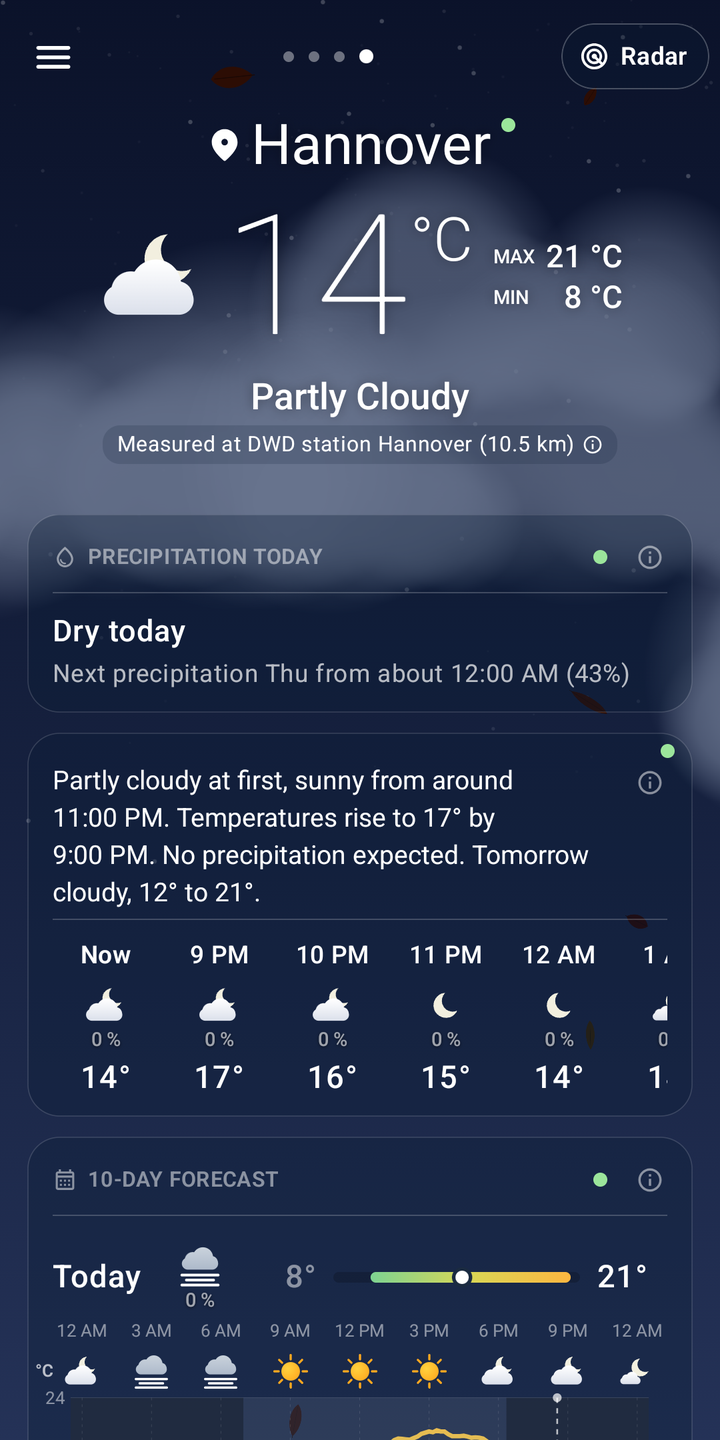
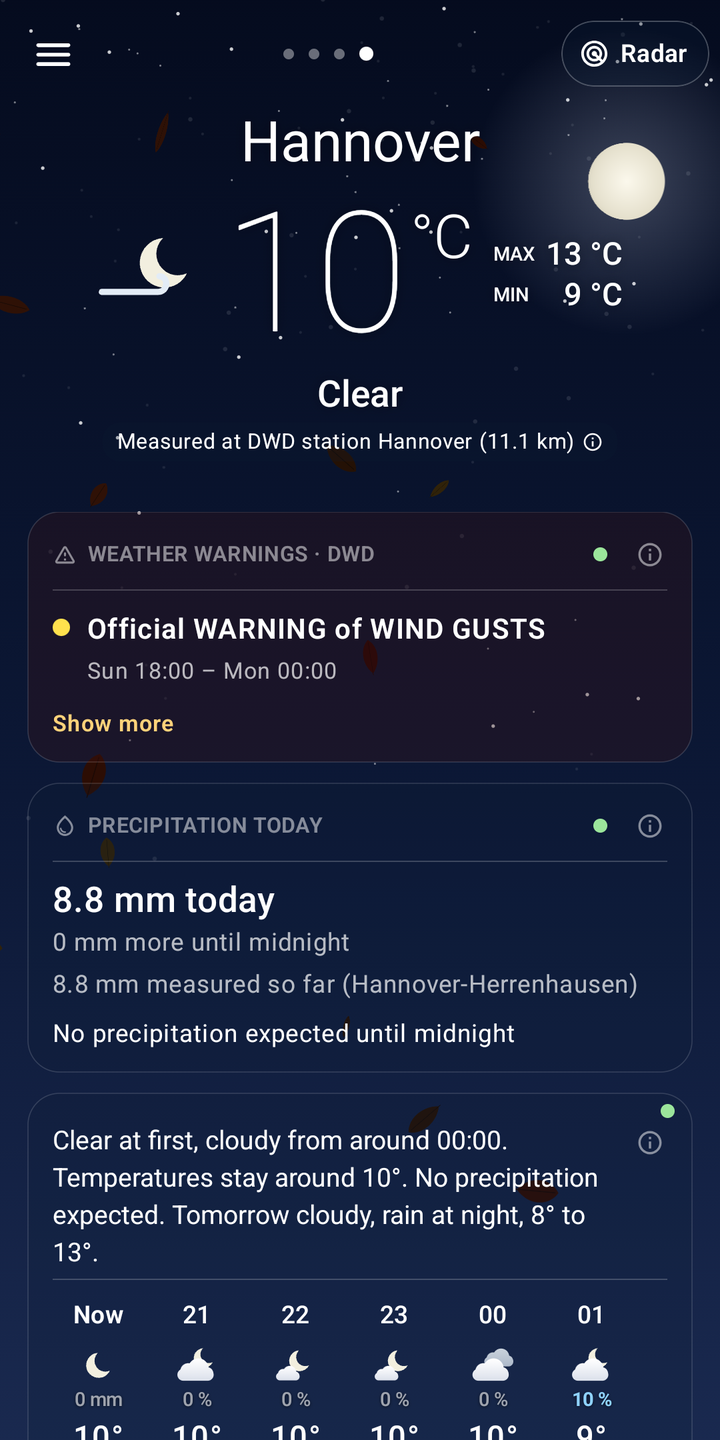
New screenshots for the docs and the store, the store text brought up to date
- docs/screenshots (de, en) and the store screenshots (de-DE, en-US) taken anew on the emulator
  with 2.2.6, Hannover on 25 Oct. 2026 in the evening: the weather page with the DWD warning, the
  day's meteogram, the look-back, sun and the full moon as in the sky, the day's radar at 15:10
  with lightning, the station and model sheets, the widget (Kiel, rain of the next two hours on
  the linear scale)
- README (de, en): the widget among the pictures, captions as the pictures show now
- Store description: the widget's parts lead into the app, the radar opens close to the place,
  lightning, the moon; long lines tightened (under 4000 characters)
- REUSE: lightning (DWD/EUMETSAT) and MET Norway in the radar pictures; the widget's picture in
  the launcher's list annotated

diff --git a/README.en.md b/README.en.md
@@ -32,17 +32,19 @@ the DWD and the KNMI. No ads, no account, no Google services. The app speaks Eng
 
 <table>
   <tr>
-    <td align="center" width="33%"><img src="docs/screenshots/en/main.png" width="240" alt="Weather page"><br><sub><b>Weather page</b><br>readings of the nearest weather station, outlook, hourly and 10 days</sub></td>
+    <td align="center" width="33%"><img src="docs/screenshots/en/main.png" width="240" alt="Weather page"><br><sub><b>Weather page</b><br>readings of the nearest weather station, official warnings, precipitation today, outlook</sub></td>
     <td align="center" width="33%"><img src="docs/screenshots/en/meteogram.png" width="240" alt="Meteogram"><br><sub><b>Meteogram</b><br>temperature, rain, sunshine and wind per hour – expected values as frames</sub></td>
     <td align="center" width="33%"><img src="docs/screenshots/en/history.png" width="240" alt="Look back"><br><sub><b>Look back</b><br>measured versus expected – rain by the radar, sunshine by the satellite over the place</sub></td>
   </tr>
   <tr>
-    <td align="center"><img src="docs/screenshots/en/radar.png" width="240" alt="Rain radar"><br><sub><b>Rain radar</b><br>DWD radar with nowcast, temperature and wind layers</sub></td>
-    <td align="center"><img src="docs/screenshots/en/sun.png" width="240" alt="Sun and moon"><br><sub><b>Sun and moon</b><br>sun arc with golden and blue hour, moon phase</sub></td>
-    <td align="center" valign="middle">
-      <b>Download</b><br><br>
-      <a href="https://github.com/schnebeck/nimbus-weather/releases/latest">Latest release (APK)</a><br><br>
-      <sub>Android 8.0 or newer<br>no Google Play Services</sub>
+    <td align="center"><img src="docs/screenshots/en/radar.png" width="240" alt="Rain radar"><br><sub><b>Rain radar</b><br>live with a two-hour nowcast, here the day in the look-back with lightning</sub></td>
+    <td align="center"><img src="docs/screenshots/en/sun.png" width="240" alt="Sun and moon"><br><sub><b>Sun and moon</b><br>sun arc with golden and blue hour, the moon as in the sky</sub></td>
+    <td align="center"><img src="docs/screenshots/en/widget.png" width="240" alt="Widget"><br><sub><b>Widget</b><br>clock and weather, rain of the next two hours, pollen – each part leads into the app</sub></td>
+  </tr>
+  <tr>
+    <td align="center" colspan="3">
+      <b>Download:</b> <a href="https://github.com/schnebeck/nimbus-weather/releases/latest">latest release (APK)</a>
+      <sub>– Android 8.0 or newer, no Google Play Services</sub>
     </td>
   </tr>
 </table>

diff --git a/README.md b/README.md
@@ -32,17 +32,19 @@ und KNMI. Keine Werbung, kein Konto, keine Google-Dienste.
 
 <table>
   <tr>
-    <td align="center" width="33%"><img src="docs/screenshots/main.png" width="240" alt="Wetterseite"><br><sub><b>Wetterseite</b><br>Messwerte der nächsten Wetterstation, Kurzvorhersage, Stunden und 10 Tage</sub></td>
+    <td align="center" width="33%"><img src="docs/screenshots/main.png" width="240" alt="Wetterseite"><br><sub><b>Wetterseite</b><br>Messwerte der nächsten Wetterstation, amtliche Warnungen, Niederschlag heute, Kurzvorhersage</sub></td>
     <td align="center" width="33%"><img src="docs/screenshots/meteogram.png" width="240" alt="Meteogramm"><br><sub><b>Meteogramm</b><br>Temperatur, Regen, Sonnenschein und Wind je Stunde – Erwartetes als Rahmen</sub></td>
     <td align="center" width="33%"><img src="docs/screenshots/history.png" width="240" alt="Rückblick"><br><sub><b>Rückblick</b><br>Gemessen gegen erwartet – Regen vom Radar, Sonne vom Satelliten über dem Ort</sub></td>
   </tr>
   <tr>
-    <td align="center"><img src="docs/screenshots/radar.png" width="240" alt="Regenradar"><br><sub><b>Regenradar</b><br>DWD-Radar mit Vorhersage, Temperatur- und Windebene</sub></td>
-    <td align="center"><img src="docs/screenshots/sun.png" width="240" alt="Sonne und Mond"><br><sub><b>Sonne und Mond</b><br>Sonnenbogen mit Morgenrot und Blauer Stunde, Mondphase</sub></td>
-    <td align="center" valign="middle">
-      <b>Herunterladen</b><br><br>
-      <a href="https://github.com/schnebeck/nimbus-weather/releases/latest">Neueste Version (APK)</a><br><br>
-      <sub>Android 8.0 oder neuer<br>ohne Google Play Services</sub>
+    <td align="center"><img src="docs/screenshots/radar.png" width="240" alt="Regenradar"><br><sub><b>Regenradar</b><br>Live mit 2 Stunden Vorhersage, hier der Tag im Rückblick mit Blitzen</sub></td>
+    <td align="center"><img src="docs/screenshots/sun.png" width="240" alt="Sonne und Mond"><br><sub><b>Sonne und Mond</b><br>Sonnenbogen mit Morgenrot und Blauer Stunde, der Mond wie am Himmel</sub></td>
+    <td align="center"><img src="docs/screenshots/widget.png" width="240" alt="Widget"><br><sub><b>Widget</b><br>Uhr und Wetter, Regen der nächsten zwei Stunden, Pollen – jedes Teil führt in die App</sub></td>
+  </tr>
+  <tr>
+    <td align="center" colspan="3">
+      <b>Herunterladen:</b> <a href="https://github.com/schnebeck/nimbus-weather/releases/latest">Neueste Version (APK)</a>
+      <sub>– Android 8.0 oder neuer, ohne Google Play Services</sub>
     </td>
   </tr>
 </table>
